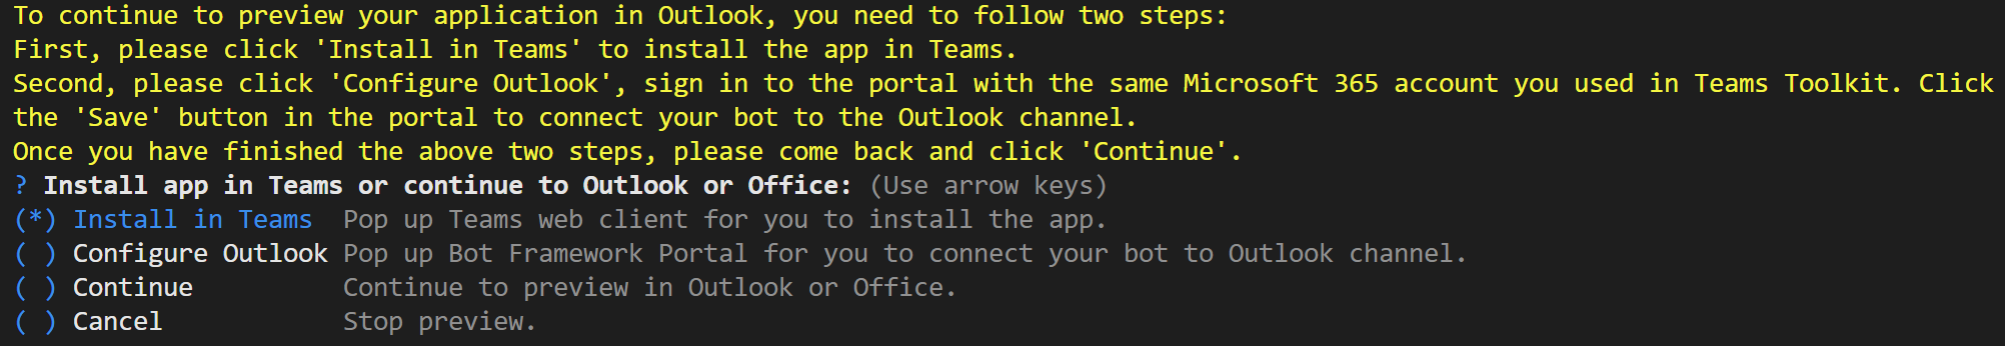
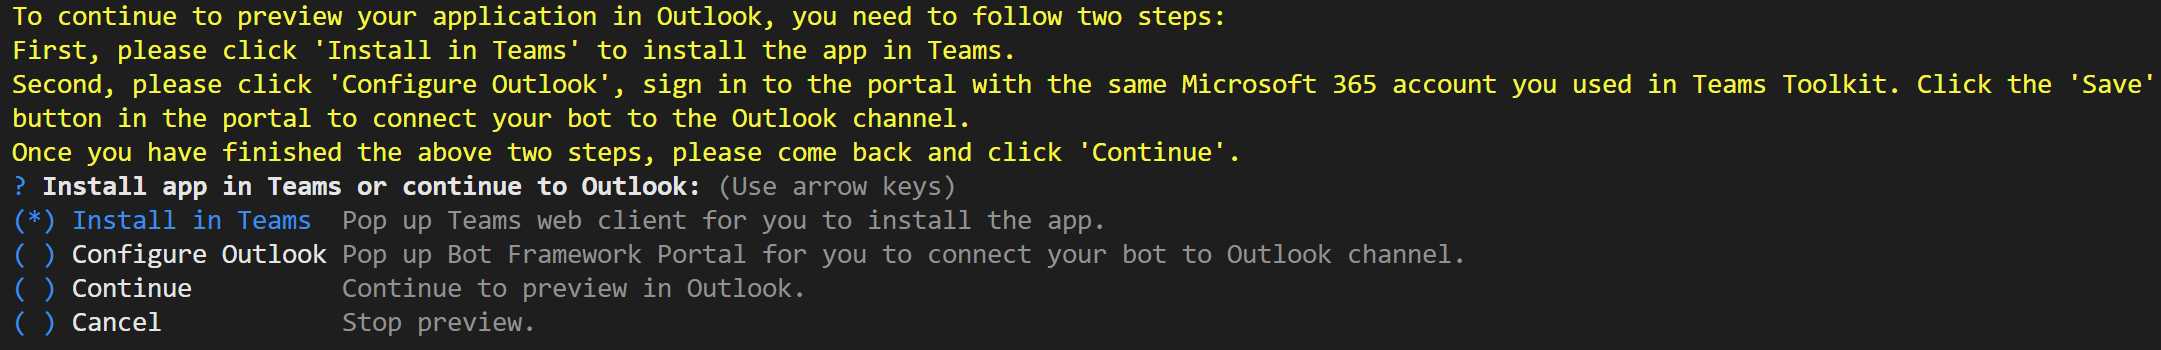
chore(m365): add bot outlook channel configuration in bicep template
- add bot outlook channel configuration in bicep template for NPM search
  sample

diff --git a/NPM-search-connector-M365/README.md b/NPM-search-connector-M365/README.md
@@ -26,7 +26,7 @@ NPM Search Connector is a Messaging Extension that allows you to perform a quick
 3. Open the project in Visual Studio Code.
 4. Open the command palette and select `Teams: Provision in the cloud`.
 5. Once provision is completed, open the command palette and select `Teams: Deploy to the cloud`.
-6. Once deployment is completed, you can preview the app running in Azure. In Visual Studio Code, open the `Teams Toolkit` Activity Panel. In `ENVIRONMENTS`, select the environment you want to preview and click the `Preview App` icon. For the prompted question, select the platform you want to preview in. If you select `Outlook`, a VS Code dialog will be popped up as the image below. Please click "Install in Teams" first to install the app in Teams, then click "Configure Outlook" to connect the bot to Outlook channel, then click "Continue" to continue to preview the app in Outlook.
+6. Once deployment is completed, you can preview the app running in Azure. In Visual Studio Code, open the `Teams Toolkit` Activity Panel. In `ENVIRONMENTS`, select the environment you want to preview and click the `Preview App` icon. For the prompted question, select the platform you want to preview in. If you select `Outlook`, a VS Code dialog will be popped up as the image below. Please click "Install in Teams" first to install the app in Teams, then click "Continue" to continue to preview the app in Outlook.
   ![Install in Teams VSC Remote](./images/install-in-teams-vsc-remote.png)
 
 ## (Optional) Debug

diff --git a/NPM-search-connector-M365/cli.md b/NPM-search-connector-M365/cli.md
@@ -16,7 +16,7 @@
     ```
     teamsfx deploy
     ```
-1. Execute `teamsfx preview --remote --m365-host <m365-host>` in your project directory to launch your application, where `m365-host` is `teams` or `outlook`. If you select `m365-host` as `outlook`, during preview, a dialog will be popped up as the image below. Please select "Install in Teams" first to install the app in Teams, then select "Configure Outlook" to connect the bot to Outlook channel, then select "Continue" to continue to debug the app in Outlook.
+1. Execute `teamsfx preview --remote --m365-host <m365-host>` in your project directory to launch your application, where `m365-host` is `teams` or `outlook`. If you select `m365-host` as `outlook`, during preview, a dialog will be popped up as the image below. Please select "Install in Teams" first to install the app in Teams, then select "Continue" to continue to debug the app in Outlook.
   ![Install in Teams CLI Remote](./images/install-in-teams-cli-remote.png)
 
 ## (Optional) Debug
